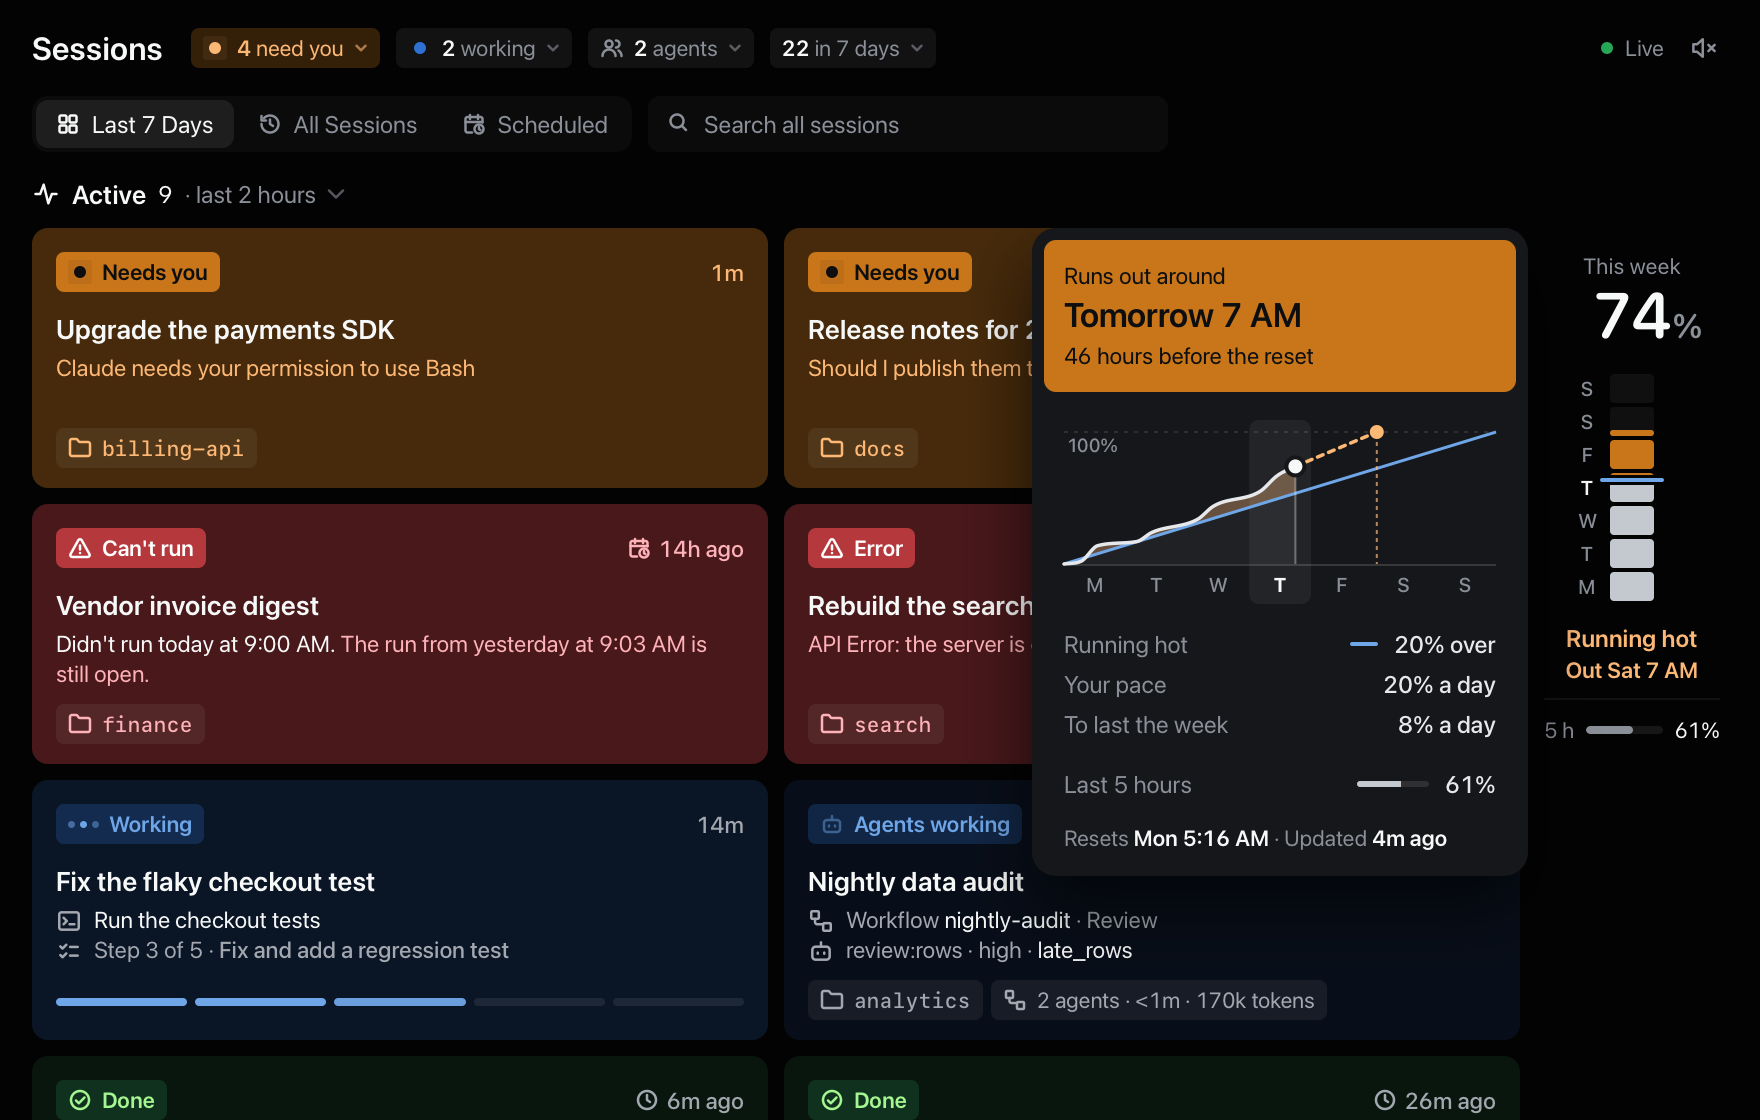
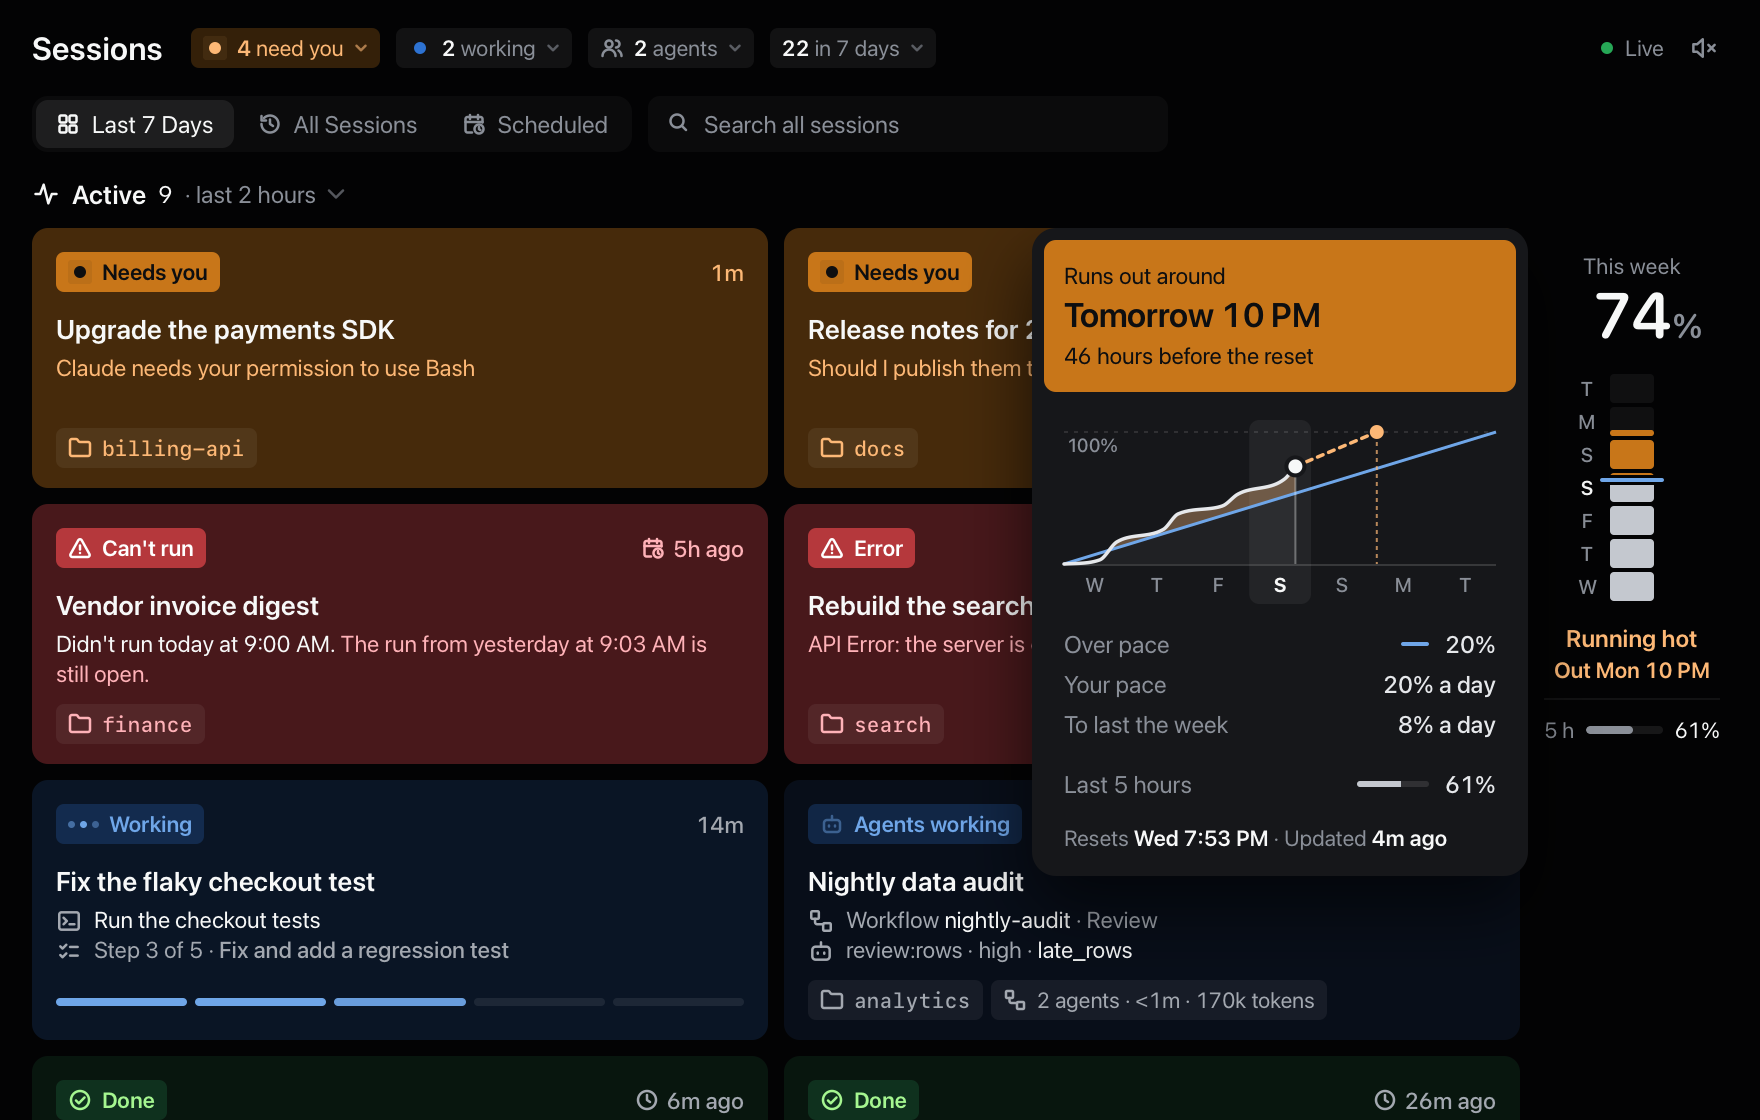
0.6.10: Say plainly in the usage card how much is left beyond an even pace, or how far past it

diff --git a/test/usage.test.ts b/test/usage.test.ts
@@ -100,22 +100,22 @@ describe("projection", () => {
 
 describe("paceRows", () => {
   const rows = (w: { pct: number; resets: number | null }) => U.paceRows(w, U.pace(w, NOW), NOW);
-  test("12.5 hours in, a hair under: on the line, no pace a day yet, the rest a day", () => {
+  test("12.5 hours in, a hair under: exactly on pace, no pace a day yet, the rest a day", () => {
     const w = week(7, NOW - 12.5 * HOUR + WEEK);
-    expect(rows(w)).toEqual([["On pace", "on the line"], ["To last the week", "14% a day"]]);
+    expect(rows(w)).toEqual([["On pace", "exactly"], ["To last the week", "14% a day"]]);
   });
-  test("over or under comes from the unrounded share", () => {
-    expect(rows(week(48.6))[0]).toEqual(["On pace", "1% under"]);
-    expect(rows(week(50.4))[0]).toEqual(["On pace", "on the line"]);
-    expect(rows(week(49.6))[0]).toEqual(["On pace", "on the line"]);
-    expect(rows(week(51.2))[0]).toEqual(["On pace", "1% over"]);
+  test("extra left or over pace, in plain words, rounded to whole points", () => {
+    expect(rows(week(48.6))[0]).toEqual(["Extra left", "1%"]);
+    expect(rows(week(50.4))[0]).toEqual(["On pace", "exactly"]);
+    expect(rows(week(49.6))[0]).toEqual(["On pace", "exactly"]);
+    expect(rows(week(51.2))[0]).toEqual(["Over pace", "1%"]);
   });
   test("after the first day, the pace a day and what a day can take, in the same unit", () => {
     // 70% in 3.5 days: 20% a day; 30% left over 3.5 days is 8.57, so 8% a day lasts.
-    expect(rows(week(70))).toEqual([["Running hot", "20% over"], ["Your pace", "20% a day"], ["To last the week", "8% a day"]]);
+    expect(rows(week(70))).toEqual([["Over pace", "20%"], ["Your pace", "20% a day"], ["To last the week", "8% a day"]]);
   });
   test("on the last day, what's left until the reset", () => {
-    expect(rows(week(80, NOW + 12 * HOUR))).toEqual([["On pace", "13% under"], ["Your pace", "12% a day"], ["Left until the reset", "20%"]]);
+    expect(rows(week(80, NOW + 12 * HOUR))).toEqual([["Extra left", "13%"], ["Your pace", "12% a day"], ["Left until the reset", "20%"]]);
   });
   test("nothing without a reset time", () => {
     expect(rows(week(50, null))).toEqual([]);

diff --git a/public/usage.js b/public/usage.js
@@ -60,14 +60,15 @@
     return end <= 100 ? { at: w.resets, pct: end, early } : { at: start + (100 / w.pct) * gone, pct: 100, early };
   }
 
-  // The card's rows under the chart, as [label, value]: how far over or under the even pace,
+  // The card's rows under the chart, as [label, value]: in plain words, how much you have
+  // left beyond an even pace ("Extra left 15%") or how far past it you are ("Over pace 20%"),
   // the pace so far a day, and the most a day that lasts until the reset, in the same unit.
   // The pace a day waits for the first day, like the forecast: a few hours make a poor day.
   function paceRows(w, p, now) {
     if (!w?.resets) return [];
     const diff = w.pct - (p.gone ?? 0), off = Math.round(diff);
     const days = (now - (w.resets - WEEK)) / DAY, left = Math.max(0, 100 - w.pct), daysLeft = (w.resets - now) / DAY;
-    const rows = [[p.say, off === 0 ? "on the line" : `${Math.abs(off)}% ${diff > 0 ? "over" : "under"}`]];
+    const rows = [off === 0 ? ["On pace", "exactly"] : [off > 0 ? "Over pace" : "Extra left", `${Math.abs(off)}%`]];
     if (days >= 1) rows.push(["Your pace", `${Math.round(w.pct / days)}% a day`]);
     rows.push(daysLeft >= 1 ? ["To last the week", `${Math.floor(left / daysLeft)}% a day`] : ["Left until the reset", `${Math.round(left)}%`]);
     return rows;

diff --git a/public/index.html b/public/index.html
@@ -1639,7 +1639,7 @@
         html += `<div class="uc-out${p.key === "limit" ? " limit" : ""}"><div class="l">Runs out around</div><div class="t">${whenWords(fc.at)}</div><div class="l">${before} before the reset</div></div>`;
       }
       html += `<div class="uc-chart">${weekChart(w, p, chartW)}</div>`;
-      // The column's own words for the pace, and how far over or under the blue line; then
+      // How much is left beyond the blue line, or how far past it; then
       // the pace a day against what a day can take until the reset.
       html += `<div class="uc-rows">${U.paceRows(w, p, now()).map(([k, v], i) => row(k, v, i ? "" : '<i class="uc-sw"></i>')).join("")}</div>`;
     }

diff --git a/README.md b/README.md
@@ -14,7 +14,7 @@
 </p>
 
 <p align="center">
-  <img src="https://img.shields.io/badge/version-0.6.9-2D72D2?labelColor=1A1D21" alt="Version 0.6.9">
+  <img src="https://img.shields.io/badge/version-0.6.10-2D72D2?labelColor=1A1D21" alt="Version 0.6.10">
   <img src="https://img.shields.io/badge/license-MIT-238551?labelColor=1A1D21" alt="MIT license">
   <img src="https://img.shields.io/badge/macOS-14%2B-8A8F98?labelColor=1A1D21" alt="macOS 14 or later">
   <img src="https://img.shields.io/badge/data-stays_on_your_Mac-6FA6E8?labelColor=1A1D21" alt="Data stays on your Mac">
@@ -60,7 +60,7 @@ This app puts every session on one screen, colored by what it needs from you. It
 
 ### Download the app
 
-1. Download `Claude-Session-Monitor-0.6.9.zip` from the [latest release](https://github.com/creative-context/claude-session-monitor/releases/latest), unzip it and move the app to Applications.
+1. Download `Claude-Session-Monitor-0.6.10.zip` from the [latest release](https://github.com/creative-context/claude-session-monitor/releases/latest), unzip it and move the app to Applications.
 2. Open it. The app isn't notarized, so the first time macOS says it can't check it. Open **System Settings › Privacy & Security** and click **Open Anyway**. Or run:
 
    ```bash
@@ -122,7 +122,7 @@ A session that set itself a reminder, with `/loop`, a cron job or a wakeup, show
 
 A side session, one the Claude app started from another session, says which one it came from on its card, and that session says how many side sessions it started. Point at either one and its family stays in focus while everything else steps back, wherever they are on screen, and click the tag to open it. In a full footer the name shortens; the whole name is in the tag's tip and in what VoiceOver reads. Only the Claude app records this, so sessions you start with `claude` in a terminal never show it.
 
-**Weekly usage.** At the right of Active, a narrow column shows how much of your plan's weekly limit you've used: the figure, then the week as seven blocks from the reset, bottom up, filled up to what you've used, with a blue line for now, where an even week would be. Under it, how that compares: Plenty left, On pace, A little fast, Running hot, Almost at the limit or, at 100%, Limit reached, and the day it resets. Only the part ahead of the blue line takes a color, orange when you run hot, and the whole fill turns red at 90%. Ahead of pace, once a day of the week has gone by (sooner near the limit), the reset gives way to when you'd run out at the week's average pace, to the hour, if that comes before the reset: "Out Wed 1 PM". Pointing at the column, or reaching it with the keyboard, opens a card with that forecast in a solid block, the week as a curve against the blue diagonal of an even week (today has its band and a dot at now, and a dashed line goes on at the same pace to where it ends, with a dotted line down to the day it reaches 100% when that comes before the reset), the pace in the column's own words with how far over or under the blue line you are (or on the line), your pace a day once the first day has gone by, the most a day that lasts until the reset, the last 5 hours on plans that have that limit, and when it resets. The curve comes from the readings the app keeps through the week. In a narrow window and in the other views, a small version sits in the header instead. Claude Code only hands these numbers to a status line, and the Claude app doesn't run one, so the hook installer adds a small status line to `~/.claude/settings.json` (only when you have none), and, when the numbers are more than a few minutes old and you've used Claude Code since, at most every 10 minutes the app opens Claude Code in a hidden terminal for a few seconds, in its own empty folder and without your settings, so it runs that status line. Nothing is sent to Claude and no session is saved. Allow that folder once, from a terminal:
+**Weekly usage.** At the right of Active, a narrow column shows how much of your plan's weekly limit you've used: the figure, then the week as seven blocks from the reset, bottom up, filled up to what you've used, with a blue line for now, where an even week would be. Under it, how that compares: Plenty left, On pace, A little fast, Running hot, Almost at the limit or, at 100%, Limit reached, and the day it resets. Only the part ahead of the blue line takes a color, orange when you run hot, and the whole fill turns red at 90%. Ahead of pace, once a day of the week has gone by (sooner near the limit), the reset gives way to when you'd run out at the week's average pace, to the hour, if that comes before the reset: "Out Wed 1 PM". Pointing at the column, or reaching it with the keyboard, opens a card with that forecast in a solid block, the week as a curve against the blue diagonal of an even week (today has its band and a dot at now, and a dashed line goes on at the same pace to where it ends, with a dotted line down to the day it reaches 100% when that comes before the reset), how much you have left beyond an even pace (Extra left) or how far past it you are (Over pace), your pace a day once the first day has gone by, the most a day that lasts until the reset, the last 5 hours on plans that have that limit, and when it resets. The curve comes from the readings the app keeps through the week. In a narrow window and in the other views, a small version sits in the header instead. Claude Code only hands these numbers to a status line, and the Claude app doesn't run one, so the hook installer adds a small status line to `~/.claude/settings.json` (only when you have none), and, when the numbers are more than a few minutes old and you've used Claude Code since, at most every 10 minutes the app opens Claude Code in a hidden terminal for a few seconds, in its own empty folder and without your settings, so it runs that status line. Nothing is sent to Claude and no session is saved. Allow that folder once, from a terminal:
 
 ```bash
 mkdir -p ~/.claude-session-monitor/probe && cd ~/.claude-session-monitor/probe && claude --setting-sources project --strict-mcp-config

diff --git a/CHANGELOG.md b/CHANGELOG.md
@@ -1,5 +1,9 @@
 # Changelog
 
+## 0.6.10
+
+- The usage card's first row says it plainly: "Extra left 15%" when you're under an even pace, "Over pace 20%" when you're past it, and "On pace, exactly" on the line. It used to repeat the column's words with "15% under", which could read as a contradiction.
+
 ## 0.6.9
 
 - Cards are always compact, in any window: titles at 13.5 points on one line, 130-point cards, and the plan's bar in the folder's place. A tall window used to switch to bigger titles on two lines.
